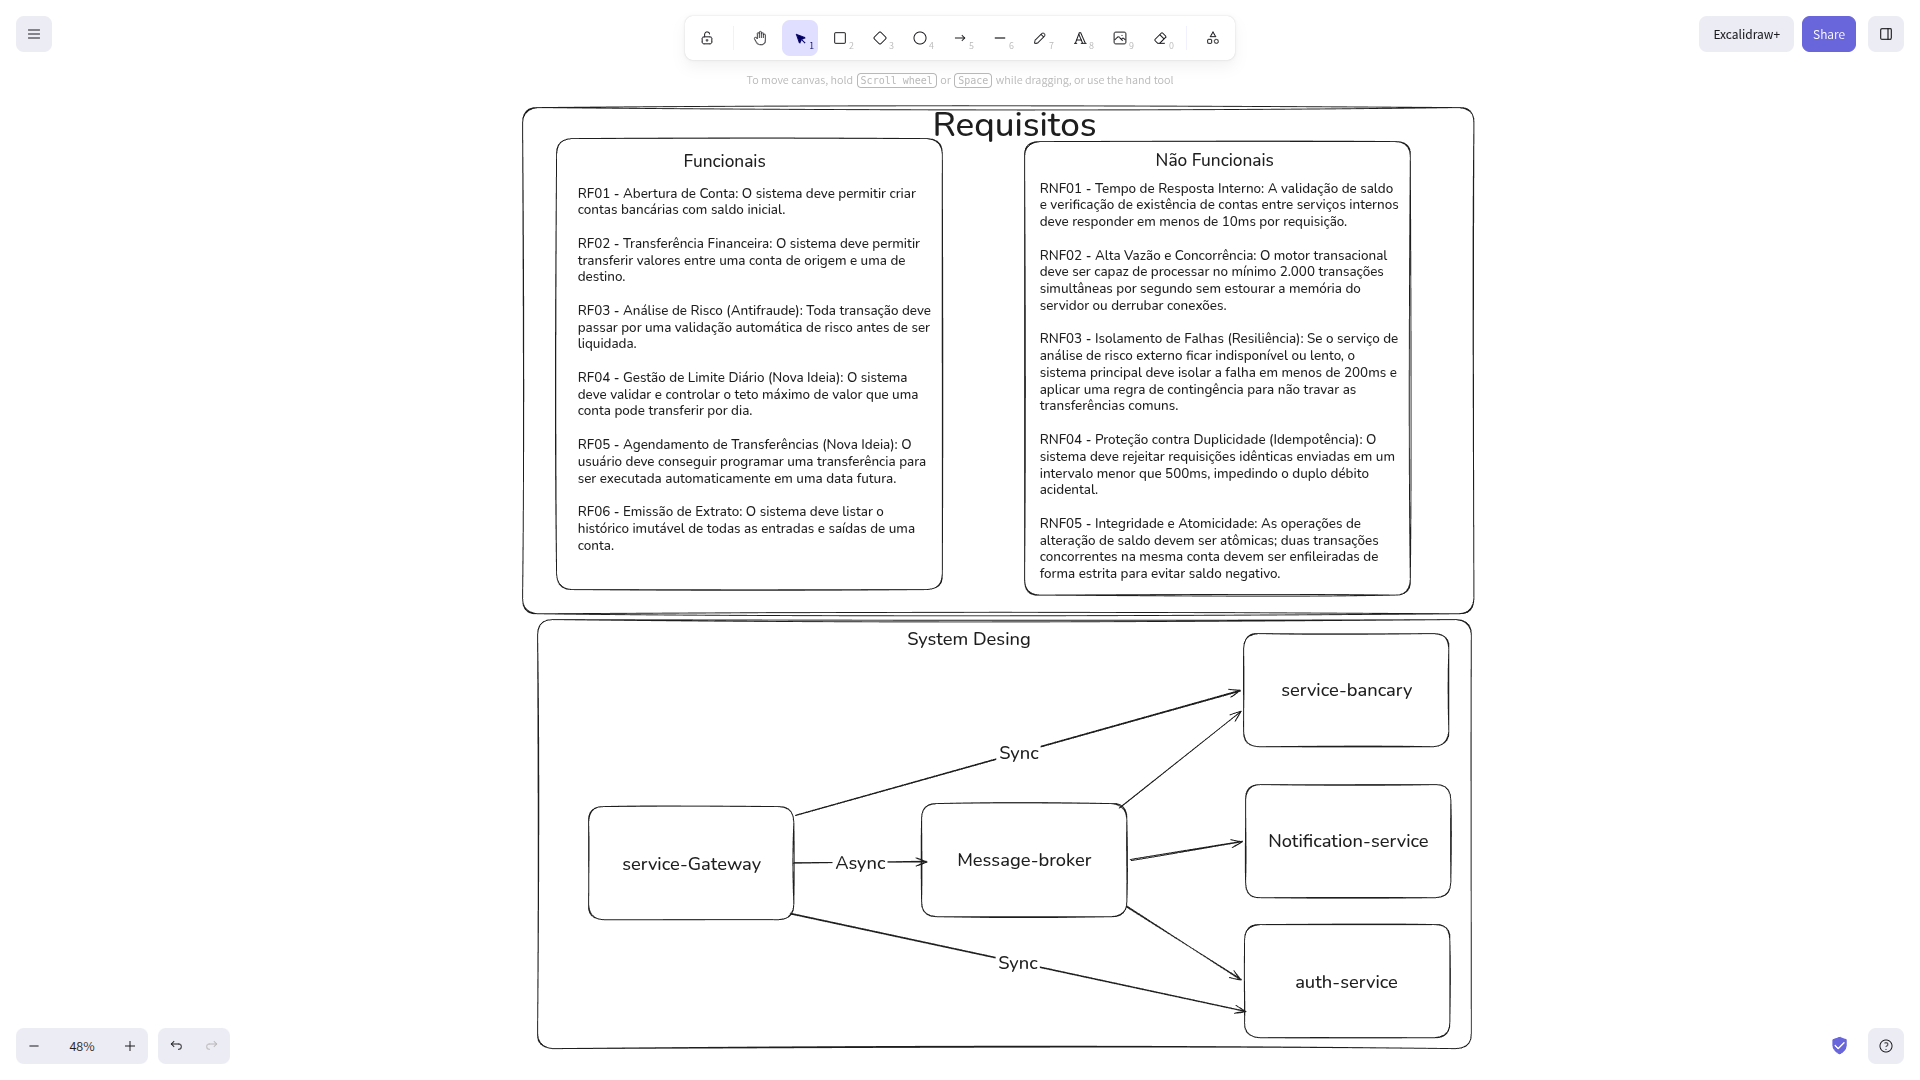
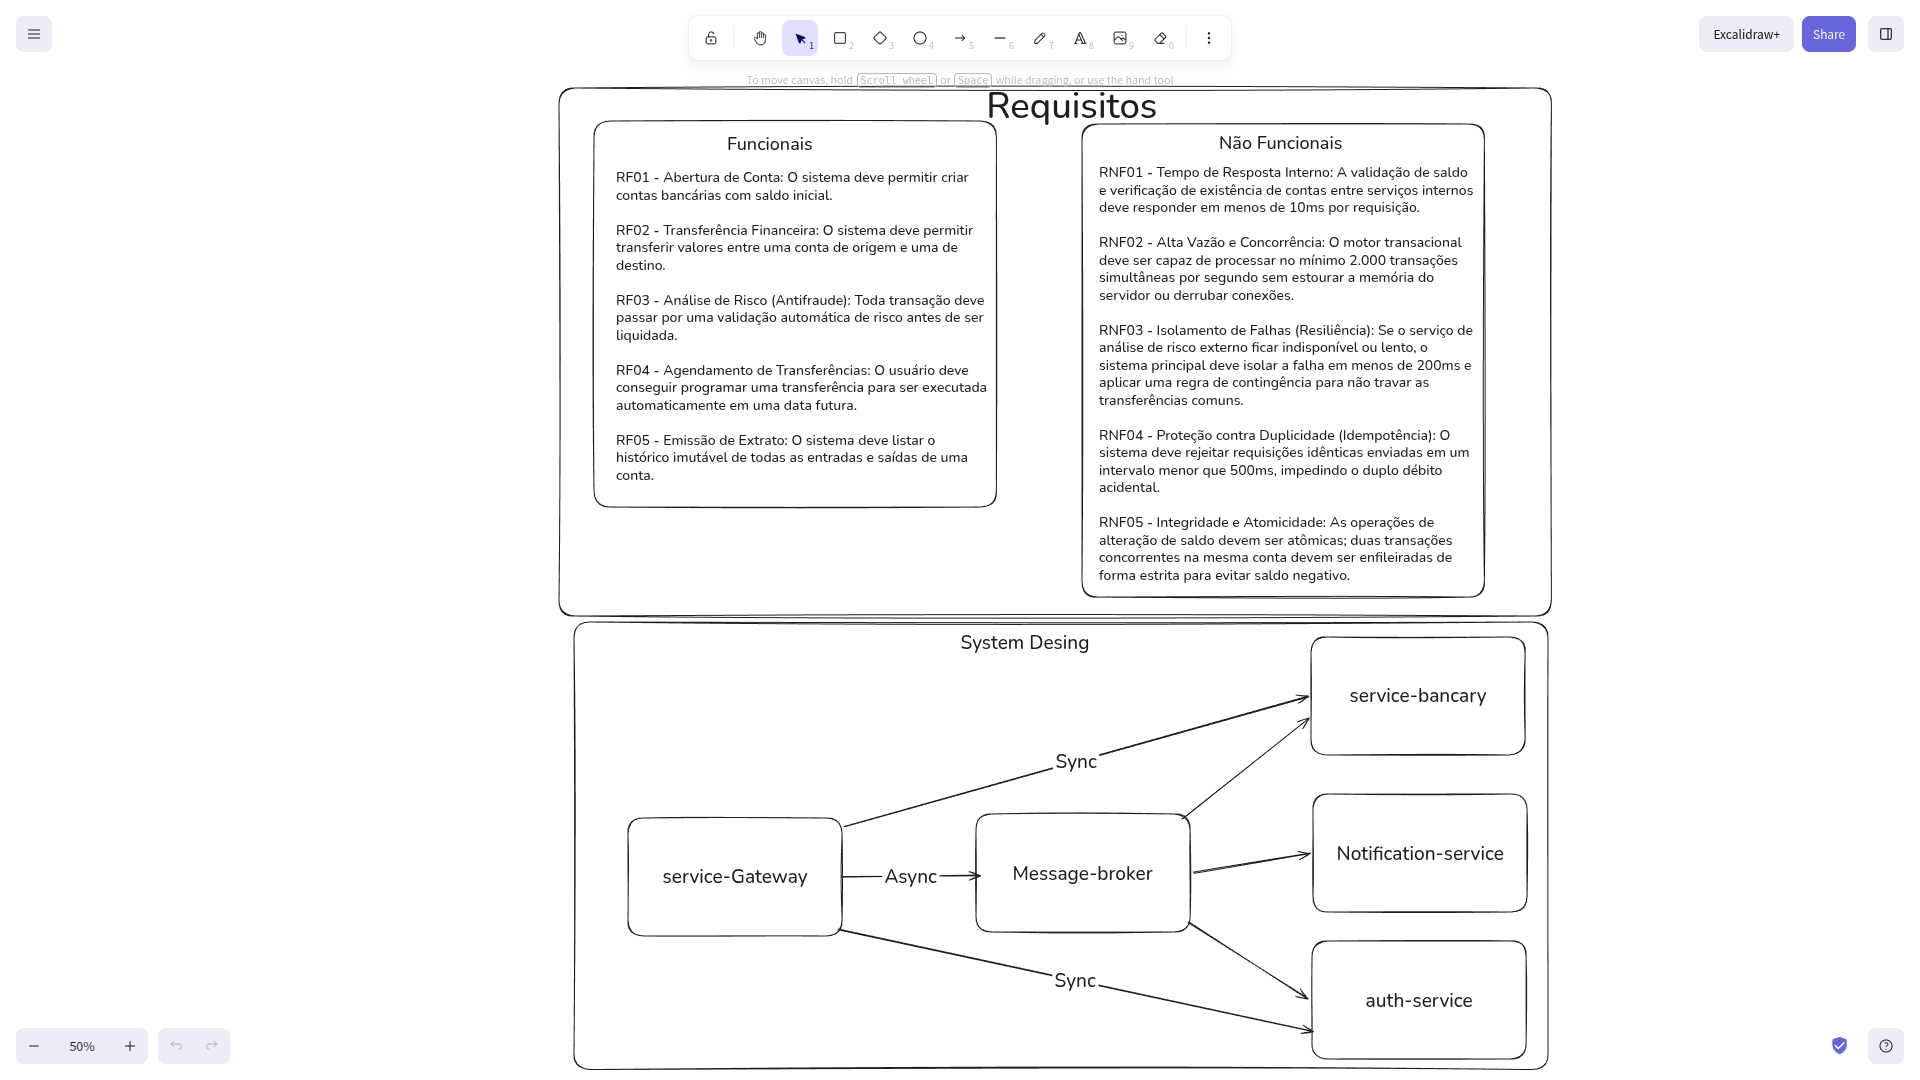
feat(): adiciona a buscado historico de uma conta, faz refatoração ṕara usar grpc reativo

diff --git a/gateway-service/src/main/java/dev/cruzs/gustavo/gateway_service/filters/gRPC/FindAllHistoryByAccountIdAndYearMonthGatewayFilterFactory.java b/gateway-service/src/main/java/dev/cruzs/gustavo/gateway_service/filters/gRPC/FindAllHistoryByAccountIdAndYearMonthGatewayFilterFactory.java
@@ -1,12 +1,13 @@
 package dev.cruzs.gustavo.gateway_service.filters.gRPC;
-import dev.cruzs.gustavo.gateway_service.filters.gRPC.generated.AccountResponse;
-import dev.cruzs.gustavo.gateway_service.filters.gRPC.generated.FindAccountByUserIdRequest;
+import dev.cruzs.gustavo.gateway_service.filters.gRPC.generated.*;
+import dev.cruzs.gustavo.gateway_service.filters.gRPC.generated.ReactorHistoryServiceGrpc.ReactorHistoryServiceStub;
 import dev.cruzs.gustavo.gateway_service.filters.gRPC.generated.ReactorAccountServiceGrpc.ReactorAccountServiceStub;
 import dev.cruzs.gustavo.gateway_service.utils.ConversionsOfTypes;
 import dev.cruzs.gustavo.gateway_service.utils.GetHeadersOfRequest;
 import dev.cruzs.gustavo.gateway_service.utils.dtos.FullUserHeadersRequestDto;
 import org.springframework.cloud.gateway.filter.GatewayFilter;
 import org.springframework.cloud.gateway.filter.factory.AbstractGatewayFilterFactory;
+import org.springframework.cloud.gateway.support.ServerWebExchangeUtils;
 import org.springframework.core.io.buffer.DataBuffer;
 import org.springframework.http.HttpStatus;
 import org.springframework.http.MediaType;
@@ -15,12 +16,20 @@ import org.springframework.stereotype.Component;
 import org.springframework.web.server.ServerWebExchange;
 import reactor.core.publisher.Mono;
 
+import java.time.YearMonth;
+import java.time.ZoneOffset;
+import java.util.Map;
+
 @Component
-public class FindAccountByUserIdGatewayFilterFactory extends AbstractGatewayFilterFactory<FindAccountByUserIdGatewayFilterFactory.Config> {
+public class FindAllHistoryByAccountIdAndYearMonthGatewayFilterFactory extends AbstractGatewayFilterFactory<FindAllHistoryByAccountIdAndYearMonthGatewayFilterFactory.Config> {
+  private final ReactorHistoryServiceStub reactorHistoryServiceStub;
   private final ReactorAccountServiceStub reactorAccountServiceStub;
 
-  public FindAccountByUserIdGatewayFilterFactory(ReactorAccountServiceStub reactorAccountServiceStub) {
+  public FindAllHistoryByAccountIdAndYearMonthGatewayFilterFactory(
+      ReactorHistoryServiceStub reactorHistoryServiceStub,
+      ReactorAccountServiceStub reactorAccountServiceStub) {
     super(Config.class);
+    this.reactorHistoryServiceStub = reactorHistoryServiceStub;
     this.reactorAccountServiceStub = reactorAccountServiceStub;
   }
 
@@ -29,13 +38,29 @@ public class FindAccountByUserIdGatewayFilterFactory extends AbstractGatewayFilt
   @Override
   public GatewayFilter apply(Config config) {
     return (exchange, chain) -> {
+      Map<String, String> uriVariables = ServerWebExchangeUtils.getUriTemplateVariables(exchange);
+
+      YearMonth yearMonth = YearMonth.now(ZoneOffset.UTC);
+
+      String year = uriVariables.getOrDefault("year", String.valueOf(yearMonth.getYear()));
+      String month = uriVariables.getOrDefault("month", String.valueOf(yearMonth.getMonthValue()));
+
       FullUserHeadersRequestDto fullUserHeadersRequestDto = GetHeadersOfRequest.getFullUser(exchange);
+
       FindAccountByUserIdRequest findAccountByUserIdRequest = FindAccountByUserIdRequest.newBuilder()
           .setUserId(fullUserHeadersRequestDto.id())
           .build();
 
       return reactorAccountServiceStub.findAccountByUserId(findAccountByUserIdRequest)
-        .flatMap(accountResponse -> this.sendResponse(exchange, accountResponse))
+          .flatMap(accountResponse -> {
+            FindAllByAccountIdAndYearMonthRequest historyReq = FindAllByAccountIdAndYearMonthRequest.newBuilder()
+                .setAccountId(accountResponse.getId())
+                .setYearMonth(year + "-" + month)
+                .build();
+
+            return reactorHistoryServiceStub.findAllByAccountIdAndYearMonth(historyReq);
+          })
+          .flatMap(historyResponse -> sendResponse(exchange, historyResponse))
           .onErrorResume(throwable -> {
             ServerHttpResponse response = exchange.getResponse();
             response.setStatusCode(HttpStatus.INTERNAL_SERVER_ERROR);
@@ -44,8 +69,8 @@ public class FindAccountByUserIdGatewayFilterFactory extends AbstractGatewayFilt
     };
   }
 
-  private Mono<Void> sendResponse(ServerWebExchange exchange, AccountResponse accountResponse) {
-    byte[] data = ConversionsOfTypes.protobufToJson(accountResponse);
+  private Mono<Void> sendResponse(ServerWebExchange exchange, ListHistoriesResponse historyResponse) {
+    byte[] data = ConversionsOfTypes.protobufToJson(historyResponse);
     ServerHttpResponse response = exchange.getResponse();
     response.setStatusCode(HttpStatus.OK);
     response.getHeaders().setContentType(MediaType.APPLICATION_JSON);

diff --git a/gateway-service/src/main/java/dev/cruzs/gustavo/gateway_service/configs/AccountGrpcConfig.java b/gateway-service/src/main/java/dev/cruzs/gustavo/gateway_service/configs/AccountGrpcConfig.java
@@ -1,7 +1,7 @@
 package dev.cruzs.gustavo.gateway_service.configs;
 
-import dev.cruzs.gustavo.gateway_service.filters.gRPC.generated.AccountServiceGrpc;
-import dev.cruzs.gustavo.gateway_service.filters.gRPC.generated.AccountServiceGrpc.AccountServiceStub;
+import dev.cruzs.gustavo.gateway_service.filters.gRPC.generated.ReactorAccountServiceGrpc;
+import dev.cruzs.gustavo.gateway_service.filters.gRPC.generated.ReactorAccountServiceGrpc.ReactorAccountServiceStub;
 import io.grpc.ManagedChannel;
 import io.grpc.ManagedChannelBuilder;
 import org.springframework.beans.factory.annotation.Value;
@@ -10,14 +10,14 @@ import org.springframework.context.annotation.Configuration;
 
 @Configuration
 public class AccountGrpcConfig {
-  @Value("${grpc.gateway-service.host}")
+  @Value("${grpc.account-service.host}")
   private String accountServiceHost;
 
-  @Value("${grpc.gateway-service.port}")
+  @Value("${grpc.account-service.port}")
   private int accountServicePort;
 
   @Bean
-  public ManagedChannel managedChannel() {
+  public ManagedChannel managedChannelAccount() {
     return ManagedChannelBuilder
         .forAddress(accountServiceHost, accountServicePort)
         .usePlaintext()
@@ -25,7 +25,7 @@ public class AccountGrpcConfig {
   }
 
   @Bean
-  public AccountServiceStub accountServiceBlockingStub()  {
-    return AccountServiceGrpc.newStub(managedChannel());
+  public ReactorAccountServiceStub reactorAccountServiceStub()  {
+    return ReactorAccountServiceGrpc.newReactorStub(managedChannelAccount());
   }
 }

diff --git a/gateway-service/src/main/java/dev/cruzs/gustavo/gateway_service/configs/HistoryGrpcConfig.java b/gateway-service/src/main/java/dev/cruzs/gustavo/gateway_service/configs/HistoryGrpcConfig.java
@@ -1,0 +1,31 @@
+package dev.cruzs.gustavo.gateway_service.configs;
+
+import dev.cruzs.gustavo.gateway_service.filters.gRPC.generated.ReactorHistoryServiceGrpc;
+import dev.cruzs.gustavo.gateway_service.filters.gRPC.generated.ReactorHistoryServiceGrpc.ReactorHistoryServiceStub;
+import io.grpc.ManagedChannel;
+import io.grpc.ManagedChannelBuilder;
+import org.springframework.beans.factory.annotation.Value;
+import org.springframework.context.annotation.Bean;
+import org.springframework.context.annotation.Configuration;
+
+@Configuration
+public class HistoryGrpcConfig {
+  @Value("${grpc.history-service.host}")
+  private String historyServiceHost;
+
+  @Value("${grpc.history-service.port}")
+  private int historyServicePort;
+
+  @Bean
+  public ManagedChannel managedChannelHistory() {
+    return ManagedChannelBuilder
+        .forAddress(historyServiceHost, historyServicePort)
+        .usePlaintext()
+        .build();
+  }
+
+  @Bean
+  public ReactorHistoryServiceStub reactorHistoryServiceStub()  {
+    return ReactorHistoryServiceGrpc.newReactorStub(managedChannelHistory());
+  }
+}
